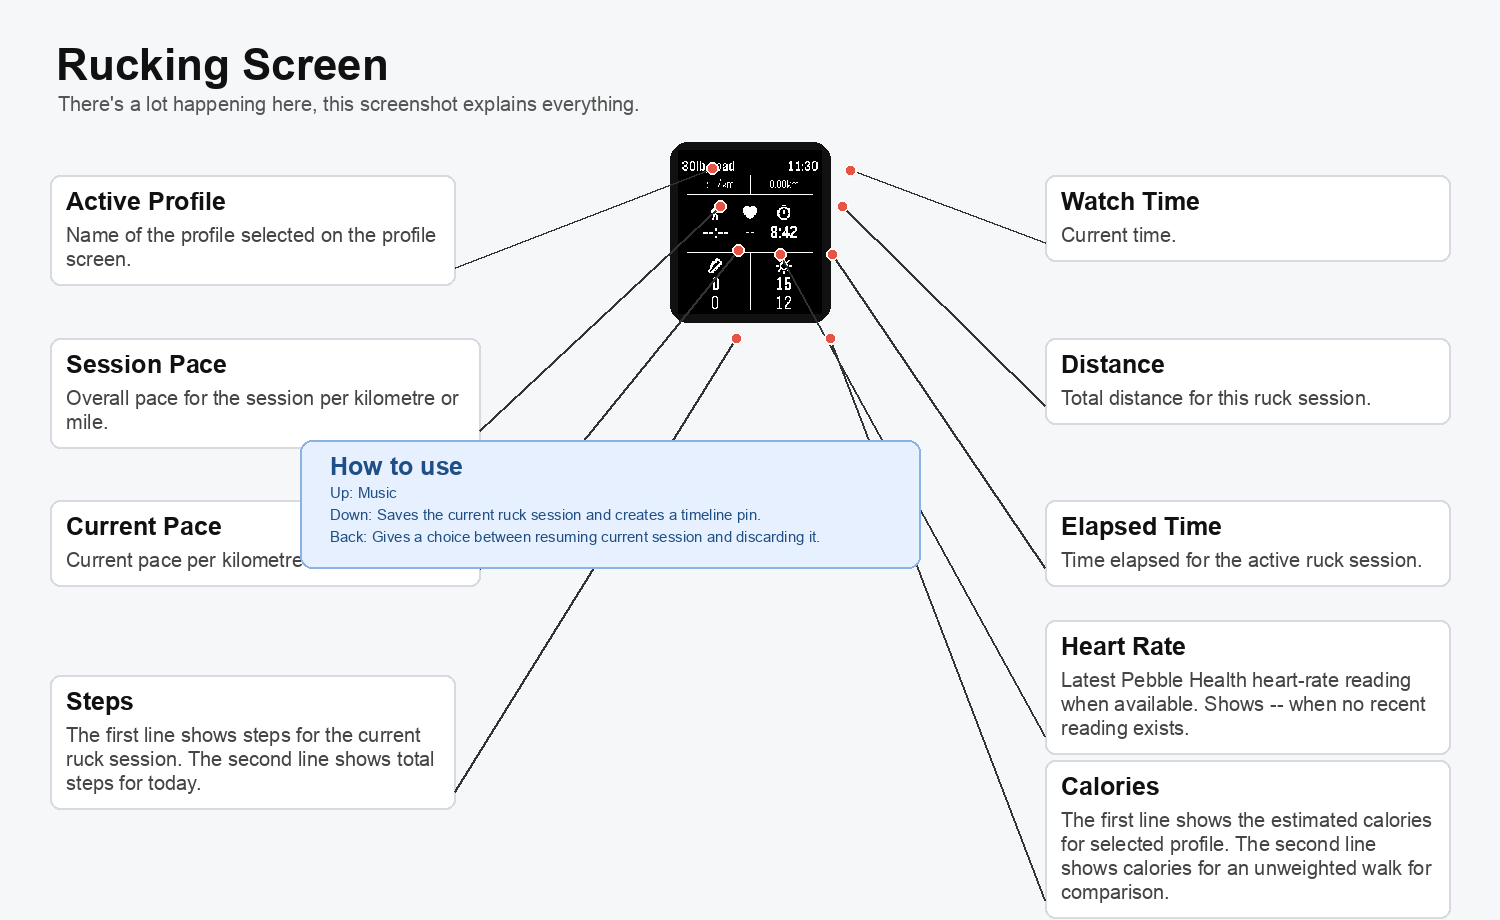
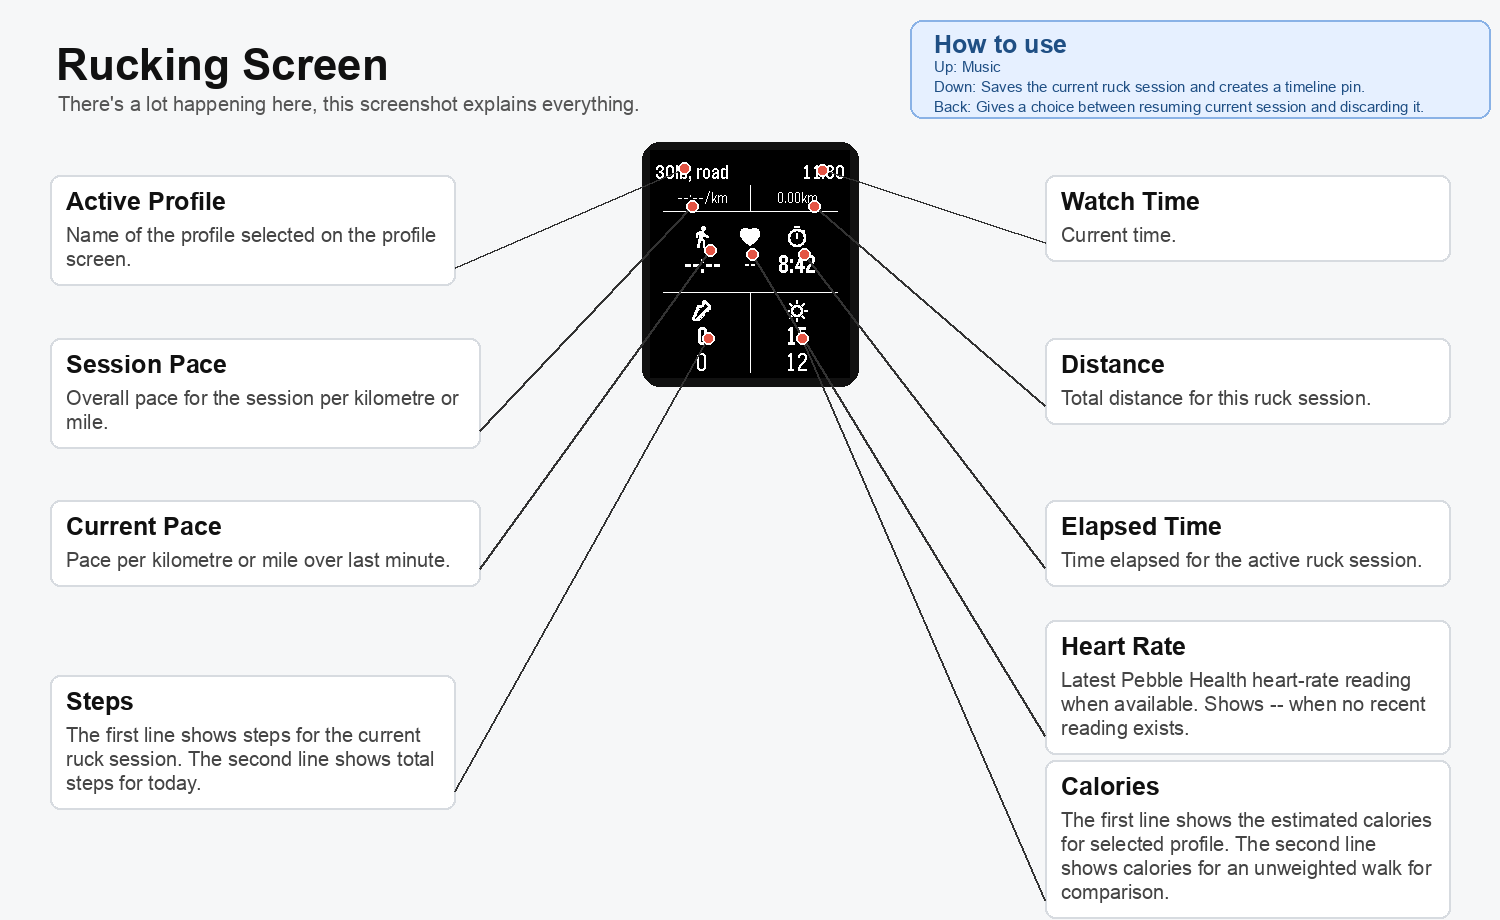
better explainer screenshots

diff --git a/ruckpebble/resources/create_screenshots.py b/ruckpebble/resources/create_screenshots.py
@@ -12,7 +12,7 @@ SCREEN_LAYOUTS = {
         "sections": {
             "Profiles": {"anchor": (34, 86), "box": (50, 175, 405), "side": "left"},
         },
-        "footer_box": (370, 345, 760, 427),
+        "footer_box": (1030, 20, 1490, 190),
     },
     "tracking": {
         "canvas_size": (1500, 920),
@@ -27,7 +27,7 @@ SCREEN_LAYOUTS = {
             "Heart Rate": {"anchor": (102, 104), "box": (1045, 620, 405), "side": "right"},
             "Calories": {"anchor": (152, 188), "box": (1045, 760, 405), "side": "right"},
         },
-        "footer_box": (300, 440, 920, 522),
+        "footer_box": (910, 20, 1490, 190),
     },
     "settings": {
         "canvas_size": (1800, 1500),
@@ -40,7 +40,7 @@ SCREEN_LAYOUTS = {
             "Tracked Totals": {"anchor": (32, 864), "box": (1290, 680, 460), "side": "right"},
             "Last Activity": {"anchor": (32, 1000), "box": (1290, 890, 460), "side": "right"},
         },
-        "footer_box": (470, 1350, 860, 1428),
+        "footer_box": (1270, 20, 1770, 170),
     },
 }
 
@@ -154,7 +154,7 @@ def draw_anchor(draw, point, accent="#e45545"):
     draw.ellipse((x - r, y - r, x + r, y + r), fill=accent, outline="white", width=2)
 
 
-def place_watch(canvas, screenshot, scale=0.72, top=150):
+def place_watch(canvas, screenshot, scale=1.0, top=150):
     watch = Image.open(screenshot).convert("RGB")
     watch = watch.resize((int(watch.width * scale), int(watch.height * scale)), Image.Resampling.NEAREST)
     wx = (canvas.width - watch.width) // 2
@@ -299,15 +299,15 @@ def render_screen(doc, screenshot_path, output_path):
     bx, by, bw, bh = footer_box
     footer_subtitle = footer.get("subtitle", "")
     footer_lines = wrap_text(draw, footer_subtitle, f_footer, bw - 60) if footer_subtitle else []
-    footer_height = 56 + max(1, len(footer_lines)) * 24
-    footer_box = (bx, by, bw, max(bh, by + footer_height))
+    footer_height = 14 + 24 + max(1, len(footer_lines)) * 20
+    footer_box = (bx, by, bw, min(bh, by + footer_height))
     draw.rounded_rectangle(footer_box, radius=12, fill="#e6f0ff", outline="#8ab2e6", width=2)
-    draw.text((bx + 30, by + 12), footer.get("title", ""), fill="#1f4f84", font=f_box_title)
+    draw.text((bx + 24, by + 10), footer.get("title", ""), fill="#1f4f84", font=f_box_title)
     if footer_lines:
-        yy = by + 44
+        yy = by + 38
         for line in footer_lines:
-            draw.text((bx + 30, yy), line, fill="#1f4f84", font=f_footer)
-            yy += 22
+            draw.text((bx + 24, yy), line, fill="#1f4f84", font=f_footer)
+            yy += 20
 
     output_path.parent.mkdir(parents=True, exist_ok=True)
     canvas.save(output_path)

diff --git a/ruckpebble/src/c/ruckpebble.c b/ruckpebble/src/c/ruckpebble.c
@@ -587,7 +587,7 @@ static void prv_update_display(void) {
       }
     }
   }
-  if (current_pace_sec <= 0) {
+  if (current_pace_sec <= 0 && !s_health_available) {
     current_pace_sec = session_pace_display_sec;
   }
   s_current_pace_sec = (int32_t)current_pace_sec;

diff --git a/ruckpebble/resources/screenshot_descriptions.md b/ruckpebble/resources/screenshot_descriptions.md
@@ -30,7 +30,7 @@
 - description: Overall pace for the session per kilometre or mile.
 
 ## Current Pace
-- description: Current pace per kilometre or mile.
+- description: Pace per kilometre or mile over last minute.
 
 ## Steps
 - description: The first line shows steps for the current ruck session. The second line shows total steps for today.
